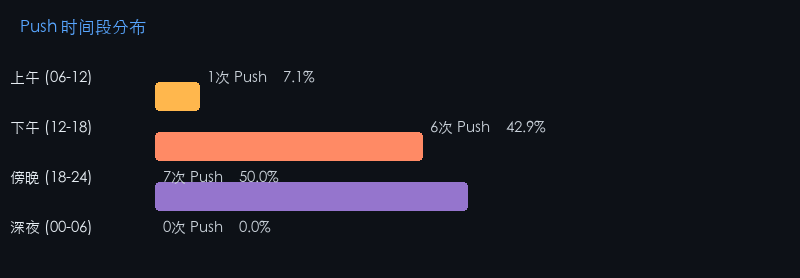
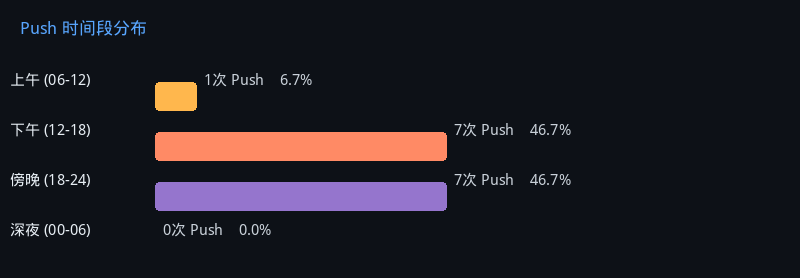
📊 Update profile stats [auto]

diff --git a/README.md b/README.md
@@ -1,16 +1,16 @@
-# 👋 嗨，我是 蛋烧肉粽
+# 👋 嗨，我是 jyh20030112
 
-> 📊 以下数据由 GitHub Actions 自动更新 | 最后更新: 2026-05-22 09:47 UTC
+> 📊 以下数据由 GitHub Actions 自动更新 | 最后更新: 2026-05-22 09:49 UTC
 
 ---
 
 ## 📈 我的编码活动统计
 
-基于最近 14 次 Push 记录：
+基于最近 15 次 Push 记录：
 
 | 🕐 最活跃时段 | 📆 最活跃星期 | 💻 最常用语言 |
 |:---:|:---:|:---:|
-| 傍晚 🌆 | 周五 | Python |
+| 下午 ☀ | 周五 | Python |
 
 ---
 
